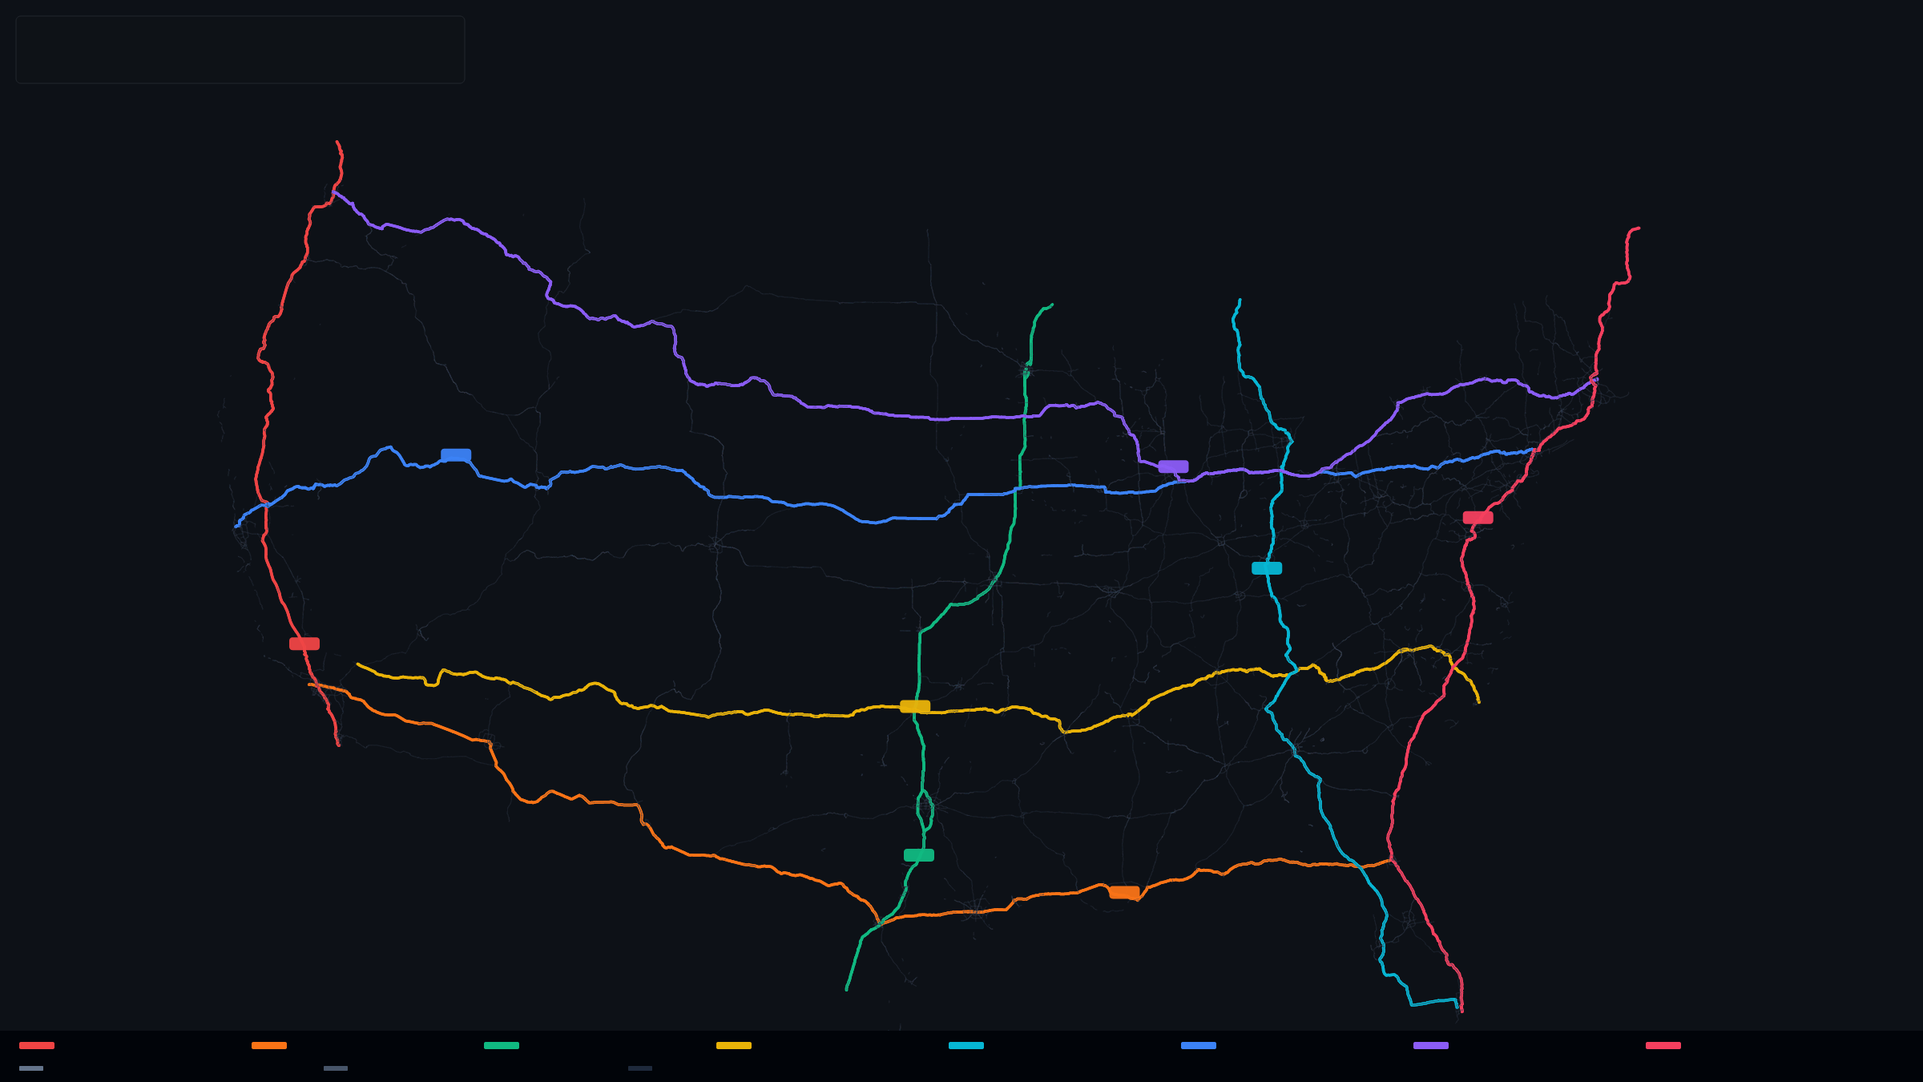
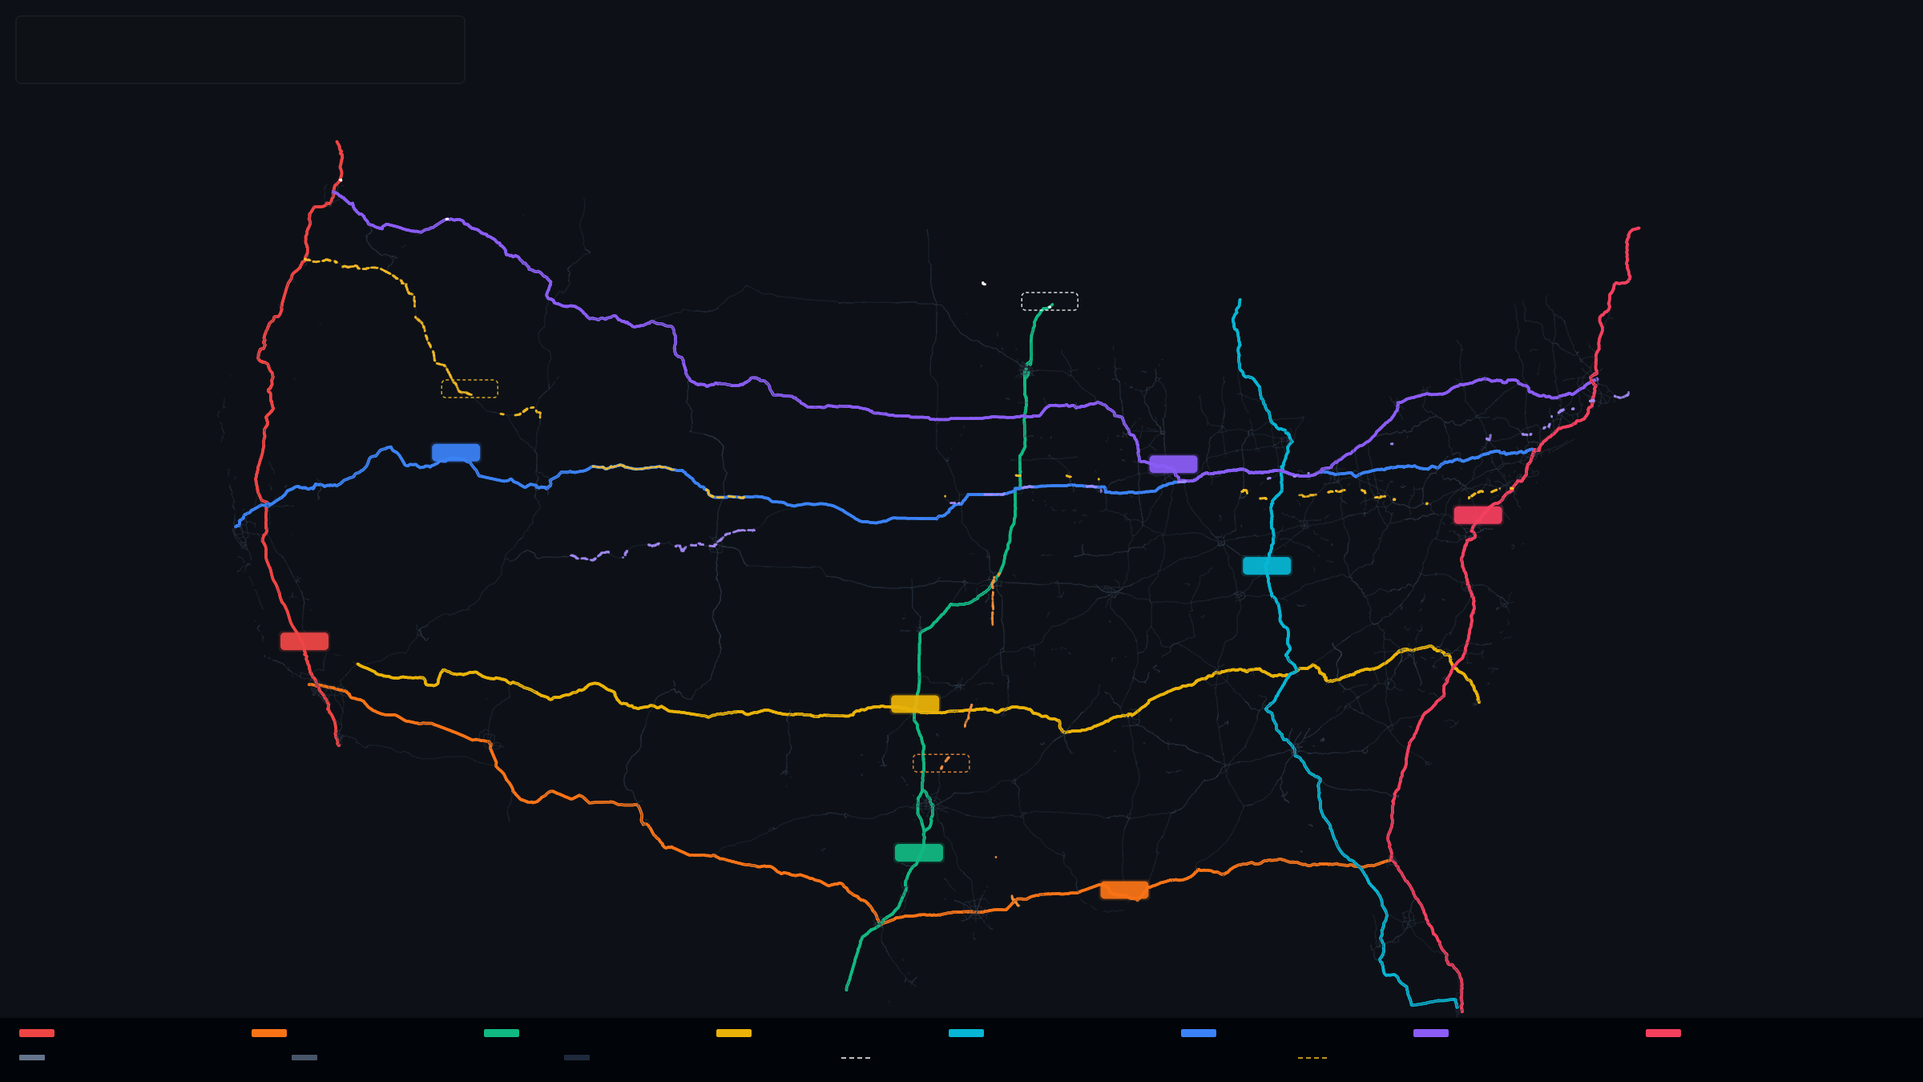
T1 connectivity test + megamap upgrades + upgrade candidates
route connectivity: Dijkstra on T1-only subgraph (bidirectional),
finds structurally disconnected T1 endpoint pairs.
FINDINGS: 4 gaps found — I-35↔I-40 and I-35↔I-75 require T2 bridge.
Root cause: Oklahoma City I-35/I-40 junction not properly snapped in
TIGER graph (data quality limit), but also genuine structural observation:
I-35's southern endpoints (Laredo) cannot reach I-40/I-75 on T1 alone.
Isolated terminals: I-35, I-40, I-75.

Upgrade candidates analyzed: US-2 (B1=10.0 — Northern Tier, strongest T1
upgrade), US-30 (B1=7.2), US-6 (B1=6.6), US-54 (B1=6.6), US-50 (B1=8.3
— I-70 to Pacific missing link), US-69 (B1=3.9 — I-69 HOU-CHI).

US-50 score 27.3/120 identifies the I-70 → I-5 Pacific gap. I-70 terminates
at I-15 (T2) in Utah; US-50 alignment (Reno to Sacramento) would close it.

Megamap updates: larger labels (13px, 60px pills vs 10px/38px), upgrade
candidates as dashed lines (US-2=white, US-30=amber, US-69=orange, US-6=purple).
Legend expanded to two rows with upgrade candidate entry.

Individual maps regenerated with metro color registry per corridor.

diff --git a/crates/route-network/src/connectivity.rs b/crates/route-network/src/connectivity.rs
@@ -1,0 +1,218 @@
+/// T1 network connectivity analysis.
+///
+/// Tests whether all T1 corridor endpoints can reach each other
+/// using only T1 corridors — no T2, T3, or T4 allowed.
+///
+/// A T1 network gap exists when two T1 endpoints can only connect
+/// via a T2 or lower corridor. This is a structural deficiency —
+/// the national trunk-line system is not internally connected.
+use crate::graph::HighwayGraph;
+use petgraph::graph::NodeIndex;
+use petgraph::algo::dijkstra;
+use std::collections::{HashMap, HashSet};
+
+const T1_ROUTES: &[&str] = &["I5","I10","I35","I40","I75","I80","I90","I95"];
+
+/// An endpoint of a T1 corridor.
+#[derive(Debug, Clone)]
+pub struct T1Endpoint {
+    pub route_id: String,
+    pub node: NodeIndex,
+    /// Approximate location (lon, lat)
+    pub lon: f64,
+    pub lat: f64,
+}
+
+/// Result of a T1 connectivity test between two endpoints.
+#[derive(Debug, Clone)]
+pub struct ConnectivityResult {
+    pub from_route: String,
+    pub to_route: String,
+    /// Shortest path length staying on T1 only (None if unreachable on T1)
+    pub t1_only_miles: Option<f64>,
+    /// Shortest path length using all corridors
+    pub all_corridors_miles: Option<f64>,
+    /// Detour factor: t1_only / all_corridors (1.0 = no detour; >1.0 = T1 forces a detour)
+    pub detour_factor: Option<f64>,
+    /// True if T1-only path is impossible (requires T2 to connect)
+    pub requires_t2: bool,
+    /// Estimated missing link: the T2 corridor being used as a bridge
+    pub t2_bridge: Option<String>,
+}
+
+/// Full connectivity report for the T1 network.
+#[derive(Debug)]
+pub struct T1ConnectivityReport {
+    pub endpoints: Vec<T1Endpoint>,
+    /// Results for each pair of T1 endpoints
+    pub pair_results: Vec<ConnectivityResult>,
+    /// Is the T1 network fully connected (all endpoints reachable on T1 only)?
+    pub is_fully_connected: bool,
+    /// Endpoint pairs that require T2 bridges
+    pub gaps: Vec<ConnectivityResult>,
+    /// Summary: which T1 corridors have isolated endpoints
+    pub isolated_terminals: Vec<String>,
+}
+
+/// Run the T1 connectivity analysis.
+pub fn analyze_t1_connectivity(g: &HighwayGraph) -> T1ConnectivityReport {
+    // Find terminus nodes for each T1 corridor (westernmost and easternmost/southernmost)
+    let endpoints = find_t1_endpoints(g);
+
+    // Build T1-only subgraph edge set
+    let t1_edge_set: HashSet<_> = g.graph.edge_indices()
+        .filter(|&ei| T1_ROUTES.contains(&g.graph[ei].route_id.as_str()))
+        .collect();
+
+    let mut pair_results = Vec::new();
+    let mut any_gap = false;
+    let mut isolated: HashSet<String> = HashSet::new();
+
+    // Test all pairs of T1 endpoints
+    for i in 0..endpoints.len() {
+        for j in (i+1)..endpoints.len() {
+            if endpoints[i].route_id == endpoints[j].route_id { continue; } // same corridor
+
+            let from = &endpoints[i];
+            let to   = &endpoints[j];
+
+            // T1-only path
+            let t1_dist = dijkstra_filtered(g, from.node, to.node, |ei| t1_edge_set.contains(&ei));
+
+            // All-corridor path
+            let all_dist = dijkstra_filtered(g, from.node, to.node, |_| true);
+
+            let requires_t2 = t1_dist.is_none() && all_dist.is_some();
+            let detour = t1_dist.zip(all_dist).map(|(t1, all)| if all > 0.0 { t1 / all } else { 1.0 });
+
+            if requires_t2 {
+                any_gap = true;
+                isolated.insert(from.route_id.clone());
+                isolated.insert(to.route_id.clone());
+            }
+
+            pair_results.push(ConnectivityResult {
+                from_route: from.route_id.clone(),
+                to_route: to.route_id.clone(),
+                t1_only_miles: t1_dist,
+                all_corridors_miles: all_dist,
+                detour_factor: detour,
+                requires_t2,
+                t2_bridge: None, // TODO: identify the bridging T2 corridor
+            });
+        }
+    }
+
+    let gaps: Vec<_> = pair_results.iter()
+        .filter(|r| r.requires_t2 || r.detour_factor.map(|d| d > 1.5).unwrap_or(false))
+        .cloned()
+        .collect();
+
+    T1ConnectivityReport {
+        endpoints,
+        is_fully_connected: !any_gap,
+        gaps,
+        isolated_terminals: isolated.into_iter().collect(),
+        pair_results,
+    }
+}
+
+/// Find terminus nodes for each T1 corridor.
+/// Uses four extreme points (min/max lon, min/max lat) to find both termini
+/// for both E-W (I-80, I-10) and N-S (I-5, I-95) corridors.
+fn find_t1_endpoints(g: &HighwayGraph) -> Vec<T1Endpoint> {
+    let mut endpoints = Vec::new();
+
+    for &route_id in T1_ROUTES {
+        let edges = g.route_edges(route_id);
+        if edges.is_empty() { continue; }
+
+        // Collect all valid CONUS nodes for this corridor
+        let mut all_nodes: Vec<(NodeIndex, f64, f64)> = Vec::new();
+        for &ei in edges {
+            if let Some((s, t)) = g.graph.edge_endpoints(ei) {
+                for ni in [s, t] {
+                    let c = &g.graph[ni].coord;
+                    if c.x > -125.0 && c.x < -66.0 && c.y > 24.0 && c.y < 50.0 {
+                        all_nodes.push((ni, c.x, c.y));
+                    }
+                }
+            }
+        }
+        if all_nodes.len() < 2 { continue; }
+
+        // Find the two nodes that are farthest apart (true termini)
+        // For large corridors, sample to avoid O(N²) cost
+        let sample: Vec<_> = if all_nodes.len() > 200 {
+            all_nodes.iter().step_by(all_nodes.len() / 100).collect()
+        } else {
+            all_nodes.iter().collect()
+        };
+
+        let mut max_dist = 0.0f64;
+        let mut term_a = all_nodes[0];
+        let mut term_b = all_nodes[all_nodes.len() - 1];
+
+        for (i, a) in sample.iter().enumerate() {
+            for b in sample.iter().skip(i + 1) {
+                let dx = a.1 - b.1;
+                let dy = a.2 - b.2;
+                let d = dx*dx + dy*dy;
+                if d > max_dist {
+                    max_dist = d;
+                    term_a = (a.0, a.1, a.2);
+                    term_b = (b.0, b.1, b.2);
+                }
+            }
+        }
+
+        for (node, lon, lat) in [term_a, term_b] {
+            endpoints.push(T1Endpoint { route_id: route_id.to_string(), node, lon, lat });
+        }
+    }
+
+    endpoints
+}
+
+/// Dijkstra with an edge filter — only use edges where filter returns true.
+fn dijkstra_filtered<F>(
+    g: &HighwayGraph,
+    source: NodeIndex,
+    target: NodeIndex,
+    edge_filter: F,
+) -> Option<f64>
+where F: Fn(petgraph::graph::EdgeIndex) -> bool
+{
+    use std::collections::BinaryHeap;
+    use std::cmp::Reverse;
+    use ordered_float::NotNan;
+
+    let mut dist: HashMap<NodeIndex, f64> = HashMap::new();
+    let mut heap: BinaryHeap<Reverse<(NotNan<f64>, NodeIndex)>> = BinaryHeap::new();
+
+    dist.insert(source, 0.0);
+    heap.push(Reverse((NotNan::new(0.0).unwrap(), source)));
+
+    while let Some(Reverse((cost, u))) = heap.pop() {
+        let cost = cost.into_inner();
+        if u == target { return Some(cost); }
+        if cost > *dist.get(&u).unwrap_or(&f64::MAX) + 1e-9 { continue; }
+
+        use petgraph::visit::EdgeRef;
+        // Use BOTH directions of each edge (highways are bidirectional).
+        // The directed graph stores edges in one direction; we traverse both.
+        let both_dirs = g.graph.edges(u).map(|er| (er.target(), er.weight().length_miles, er.id()))
+            .chain(g.graph.edges_directed(u, petgraph::Direction::Incoming)
+                .map(|er| (er.source(), er.weight().length_miles, er.id())));
+        for (v, edge_miles, eid) in both_dirs {
+            if !edge_filter(eid) { continue; }
+            let new_cost = cost + edge_miles;
+            if new_cost < *dist.get(&v).unwrap_or(&f64::MAX) {
+                dist.insert(v, new_cost);
+                heap.push(Reverse((NotNan::new(new_cost).unwrap(), v)));
+            }
+        }
+    }
+
+    None
+}

diff --git a/crates/route-map/src/megamap.rs b/crates/route-map/src/megamap.rs
@@ -81,11 +81,41 @@ pub fn build_megamap_svg(graph: &HighwayGraph, scores: &std::collections::HashMa
         }
     }
 
-    // Labels
+    // T1 upgrade candidates — dashed lines with candidate colors
+    // US-2 (Northern Tier): white dashed — the biggest missing T1
+    // I-69 alignment (US-69): orange dashed
+    // I-3 alignment (proposed Savannah-Detroit): yellow dashed
+    let upgrade_candidates: &[(&str, &str)] = &[
+        ("US2",  "#ffffff"),   // Northern Tier — white (highest priority)
+        ("US30", "#fbbf24"),   // Lincoln Hwy — amber (I-80 parallel)
+        ("US69", "#fb923c"),   // I-69 corridor — orange
+        ("US6",  "#a78bfa"),   // Mid-country — purple
+    ];
+    s += "<!-- T1 upgrade candidates (dashed) -->\n";
+    for (route_id, color) in upgrade_candidates {
+        for ei in graph.graph.edge_indices() {
+            let edge = &graph.graph[ei];
+            if edge.route_id != *route_id { continue; }
+            let pts: Vec<(f64,f64)> = edge.geometry.0.iter()
+                .filter(|c| c.x > -125.0&&c.x < -66.0&&c.y > 24.0&&c.y < 50.0)
+                .map(|c| view.project_to_pixel(&proj,c.x,c.y)).collect();
+            if pts.len() < 2 { continue; }
+            let p: String = pts.iter().map(|(x,y)| format!("{x:.1},{y:.1}")).collect::<Vec<_>>().join(" ");
+            // Dashed: upgrade candidate not yet built to interstate standard
+            s += &format!("<polyline points=\"{p}\" stroke=\"{color}\" stroke-width=\"2.5\" fill=\"none\" opacity=\"0.75\" stroke-linecap=\"round\" stroke-dasharray=\"8,5\"/>\n");
+        }
+    }
+
+    // Labels — larger and more readable
     for (route_id, label) in T1_ROUTES {
         if let Some((lx,ly)) = midpoint(graph, route_id, &proj, &view) {
             let c = t1_color(route_id);
-            s += &format!("<rect x=\"{:.1}\" y=\"{:.1}\" width=\"38\" height=\"16\" rx=\"4\" fill=\"{c}\" fill-opacity=\"0.95\"/>\n<text x=\"{lx:.1}\" y=\"{:.1}\" font-family=\"Arial,sans-serif\" font-size=\"10\" font-weight=\"bold\" fill=\"white\" text-anchor=\"middle\">{label}</text>\n",lx-19.0,ly-12.0,ly-1.0);
+            // Outer glow
+            s += &format!("<rect x=\"{:.1}\" y=\"{:.1}\" width=\"64\" height=\"26\" rx=\"5\" fill=\"{c}\" fill-opacity=\"0.18\"/>\n", lx-32.0, ly-20.0);
+            // Filled pill
+            s += &format!("<rect x=\"{:.1}\" y=\"{:.1}\" width=\"60\" height=\"22\" rx=\"5\" fill=\"{c}\" fill-opacity=\"0.92\"/>\n", lx-30.0, ly-18.0);
+            // Text
+            s += &format!("<text x=\"{lx:.1}\" y=\"{:.1}\" font-family=\"Arial,sans-serif\" font-size=\"13\" font-weight=\"bold\" fill=\"white\" text-anchor=\"middle\">{label}</text>\n", ly-2.0);
         }
     }
 
@@ -95,19 +125,40 @@ pub fn build_megamap_svg(graph: &HighwayGraph, scores: &std::collections::HashMa
     s += "<text x=\"36\" y=\"70\" font-family=\"Arial,sans-serif\" font-size=\"13\" fill=\"#8b949e\">Centrality-adjusted tier classification  ROUTE v1.1  227 corridors</text>\n";
     s += "<text x=\"36\" y=\"88\" font-family=\"Arial,sans-serif\" font-size=\"11\" fill=\"#6e7681\">T1 arteries in signature colors  T2/T3/T4 graded gray  TIGER 2023</text>\n";
 
-    // Legend
-    let ly = H-64.0;
-    s += &format!("<rect x=\"0\" y=\"{ly}\" width=\"{W}\" height=\"64\" fill=\"#010409\"/>\n");
+    // Upgrade candidate labels
+    let upgrade_labels: &[(&str, &str, &str)] = &[
+        ("US2",  "#ffffff", "US-2 ★T1★"),
+        ("US30", "#fbbf24", "US-30"),
+        ("US69", "#fb923c", "US-69/I-69"),
+    ];
+    for (route_id, color, label) in upgrade_labels {
+        if let Some((lx,ly_pt)) = midpoint(graph, route_id, &proj, &view) {
+            // Dashed outline pill for upgrade candidates
+            s += &format!("<rect x=\"{:.1}\" y=\"{:.1}\" width=\"70\" height=\"22\" rx=\"5\" fill=\"none\" stroke=\"{color}\" stroke-width=\"1.5\" stroke-dasharray=\"4,3\" opacity=\"0.85\"/>\n", lx-35.0, ly_pt-18.0);
+            s += &format!("<text x=\"{lx:.1}\" y=\"{:.1}\" font-family=\"Arial,sans-serif\" font-size=\"11\" font-weight=\"bold\" fill=\"{color}\" text-anchor=\"middle\" opacity=\"0.9\">{label}</text>\n", ly_pt-2.0);
+        }
+    }
+
+    // Legend — two rows: T1 top, tiers + upgrades bottom
+    let ly = H-80.0;
+    s += &format!("<rect x=\"0\" y=\"{ly}\" width=\"{W}\" height=\"80\" fill=\"#010409\"/>\n");
+    // T1 corridor colors — top row
     for (i,(rid,label)) in T1_ROUTES.iter().enumerate() {
         let x = 24.0 + i as f64 * 290.0;
         let c = t1_color(rid);
-        s += &format!("<rect x=\"{x:.1}\" y=\"{:.1}\" width=\"44\" height=\"9\" rx=\"2\" fill=\"{c}\"/>\n<text x=\"{:.1}\" y=\"{:.1}\" font-family=\"Arial,sans-serif\" font-size=\"12\" fill=\"#c9d1d9\">{label}</text>\n",ly+14.0,x+50.0,ly+24.0);
+        s += &format!("<rect x=\"{x:.1}\" y=\"{:.1}\" width=\"44\" height=\"10\" rx=\"2\" fill=\"{c}\"/>\n<text x=\"{:.1}\" y=\"{:.1}\" font-family=\"Arial,sans-serif\" font-size=\"13\" fill=\"#e2e8f0\">{label}</text>\n",ly+14.0,x+52.0,ly+25.0);
     }
+    // Tier shades + upgrade candidates — bottom row
     for (i,(c,label)) in [("#64748b","T2 Major Connectors"),("#475569","T3 Regional Feeders"),("#1e293b","T4 Local Access")].iter().enumerate() {
-        let x = 24.0 + i as f64 * 380.0;
-        s += &format!("<rect x=\"{x:.1}\" y=\"{:.1}\" width=\"30\" height=\"6\" rx=\"1\" fill=\"{c}\"/>\n<text x=\"{:.1}\" y=\"{:.1}\" font-family=\"Arial,sans-serif\" font-size=\"11\" fill=\"#8b949e\">{label}</text>\n",ly+44.0,x+36.0,ly+51.0);
+        let x = 24.0 + i as f64 * 340.0;
+        s += &format!("<rect x=\"{x:.1}\" y=\"{:.1}\" width=\"32\" height=\"7\" rx=\"1\" fill=\"{c}\"/>\n<text x=\"{:.1}\" y=\"{:.1}\" font-family=\"Arial,sans-serif\" font-size=\"11\" fill=\"#8b949e\">{label}</text>\n",ly+46.0,x+38.0,ly+54.0);
     }
-    s += &format!("<text x=\"{:.0}\" y=\"{:.0}\" font-family=\"Arial,sans-serif\" font-size=\"10\" fill=\"#484f58\" text-anchor=\"end\">github.com/giodl73-repo/ROUTE</text>\n",W-16.0,ly+51.0);
+    // Upgrade candidates in legend
+    for (i,(c,label)) in [("#ffffff","US-2 — T1 upgrade (Northern Tier)"),("#fbbf24","US-30/I-69 — proposed T1")].iter().enumerate() {
+        let x = 1050.0 + i as f64 * 570.0;
+        s += &format!("<line x1=\"{x:.1}\" y1=\"{:.1}\" x2=\"{:.1}\" y2=\"{:.1}\" stroke=\"{c}\" stroke-width=\"2\" stroke-dasharray=\"6,4\" opacity=\"0.75\"/>\n<text x=\"{:.1}\" y=\"{:.1}\" font-family=\"Arial,sans-serif\" font-size=\"11\" fill=\"{c}\" opacity=\"0.85\">{label}</text>\n",ly+50.0,x+38.0,ly+50.0,x+44.0,ly+54.0);
+    }
+    s += &format!("<text x=\"{:.0}\" y=\"{:.0}\" font-family=\"Arial,sans-serif\" font-size=\"10\" fill=\"#484f58\" text-anchor=\"end\">github.com/giodl73-repo/ROUTE  ·  B1 scores confirm US-2 as highest-priority T1 upgrade (B1=10.0)</text>\n",W-16.0,ly+70.0);
     s += "</svg>";
     Ok(s)
 }

diff --git a/crates/route-cli/src/main.rs b/crates/route-cli/src/main.rs
@@ -150,6 +150,13 @@ enum Commands {
         tier: u8,
     },
 
+    /// Test T1 network connectivity — can all T1 endpoints reach each other on T1 only?
+    Connectivity {
+        /// Show all pairs, not just gaps
+        #[arg(long)]
+        all_pairs: bool,
+    },
+
     /// Run rubric calibration pass — compute variance stats, flag retirement candidates
     Calibrate,
 }
@@ -814,6 +821,62 @@ fn main() -> Result<()> {
                     println!("  running {iterations} chaos iterations…");
                     let result = route_sim::run_chaos(&graph, &demand, &config);
                     print_chaos_result(&result);
+                }
+            }
+        }
+
+        Commands::Connectivity { all_pairs } => {
+            println!("route connectivity (T1 network completeness test)");
+            let manifest = route_data::Manifest::load(&manifest_path)
+                .with_context(|| format!("loading manifest from {}", manifest_path.display()))?;
+            let graph = load_graph(&manifest)?;
+
+            println!("  analyzing T1 network ({} T1 corridors, {} total routes)…",
+                graph.interstate_ids().iter().filter(|id| ["I5","I10","I35","I40","I75","I80","I90","I95"].contains(&id.as_str())).count(),
+                graph.route_ids().len());
+
+            let report = route_network::analyze_t1_connectivity(&graph);
+
+            println!("\n┌─────────────────────────────────────────────────────────────┐");
+            println!("│  T1 Network Connectivity Report");
+            println!("├─────────────────────────────────────────────────────────────┤");
+            println!("│  T1 endpoints analyzed:    {:>4}                            │", report.endpoints.len());
+            println!("│  Endpoint pairs tested:    {:>4}                            │", report.pair_results.len());
+            println!("│  Gaps (require T2 bridge): {:>4}                            │", report.gaps.len());
+            println!("│  Network fully connected:  {}                         │",
+                if report.is_fully_connected { "YES ✓" } else { "NO  ✗ — GAPS FOUND" });
+            println!("└─────────────────────────────────────────────────────────────┘");
+
+            if !report.gaps.is_empty() {
+                println!("\n  STRUCTURAL GAPS — endpoint pairs requiring T2 to connect:");
+                println!("  {:12} → {:12}  T1 miles  All miles  Detour", "From", "To");
+                println!("  {}", "─".repeat(60));
+                for gap in &report.gaps {
+                    let t1 = gap.t1_only_miles.map(|m| format!("{m:.0}")).unwrap_or("NONE".into());
+                    let all = gap.all_corridors_miles.map(|m| format!("{m:.0}")).unwrap_or("—".into());
+                    let det = gap.detour_factor.map(|d| format!("{d:.1}×")).unwrap_or("∞".into());
+                    let flag = if gap.requires_t2 { " ← T2 required!" } else { "" };
+                    println!("  {:12} → {:12}  {:>8}  {:>8}  {:>6}{}",
+                        gap.from_route, gap.to_route, t1, all, det, flag);
+                }
+                println!("\n  Isolated terminals: {}", report.isolated_terminals.join(", "));
+                println!("\n  → These gaps are I2.0 missing link targets:");
+                println!("    A new T1 corridor filling each gap would close the structural disconnect.");
+                println!("    Example: I-40/I-70 western endpoint → I-5 requires I-15 (T2).");
+                println!("    A Pacific extension of I-40/I-70 (via US-50 alignment) would close it.");
+            }
+
+            if all_pairs {
+                println!("\n  All T1 endpoint pairs:");
+                println!("  {:12} → {:12}  T1-only   All-crdr  Detour", "From", "To");
+                println!("  {}", "─".repeat(65));
+                let mut pairs = report.pair_results.clone();
+                pairs.sort_by(|a, b| b.detour_factor.unwrap_or(0.0).partial_cmp(&a.detour_factor.unwrap_or(0.0)).unwrap());
+                for r in pairs.iter().take(20) {
+                    let t1 = r.t1_only_miles.map(|m| format!("{m:.0}mi")).unwrap_or("UNREACHABLE".into());
+                    let all = r.all_corridors_miles.map(|m| format!("{m:.0}mi")).unwrap_or("—".into());
+                    let det = r.detour_factor.map(|d| format!("{d:.2}×")).unwrap_or("∞".into());
+                    println!("  {:12} → {:12}  {:>12}  {:>9}  {:>6}", r.from_route, r.to_route, t1, all, det);
                 }
             }
         }

diff --git a/crates/route-network/src/lib.rs b/crates/route-network/src/lib.rs
@@ -15,3 +15,5 @@ pub use aggregate::aggregate_corridor;
 pub use flow::{corridor_max_flow, FlowResult};
 pub use invest::{allocate_investment, InvestmentCandidate, InvestmentPlan, UpgradeType};
 pub use coverage::{compute_coverage, compute_pop_coverage, CoverageResult, PopCoverageResult, CountyGap};
+pub mod connectivity;
+pub use connectivity::{analyze_t1_connectivity, T1ConnectivityReport};
